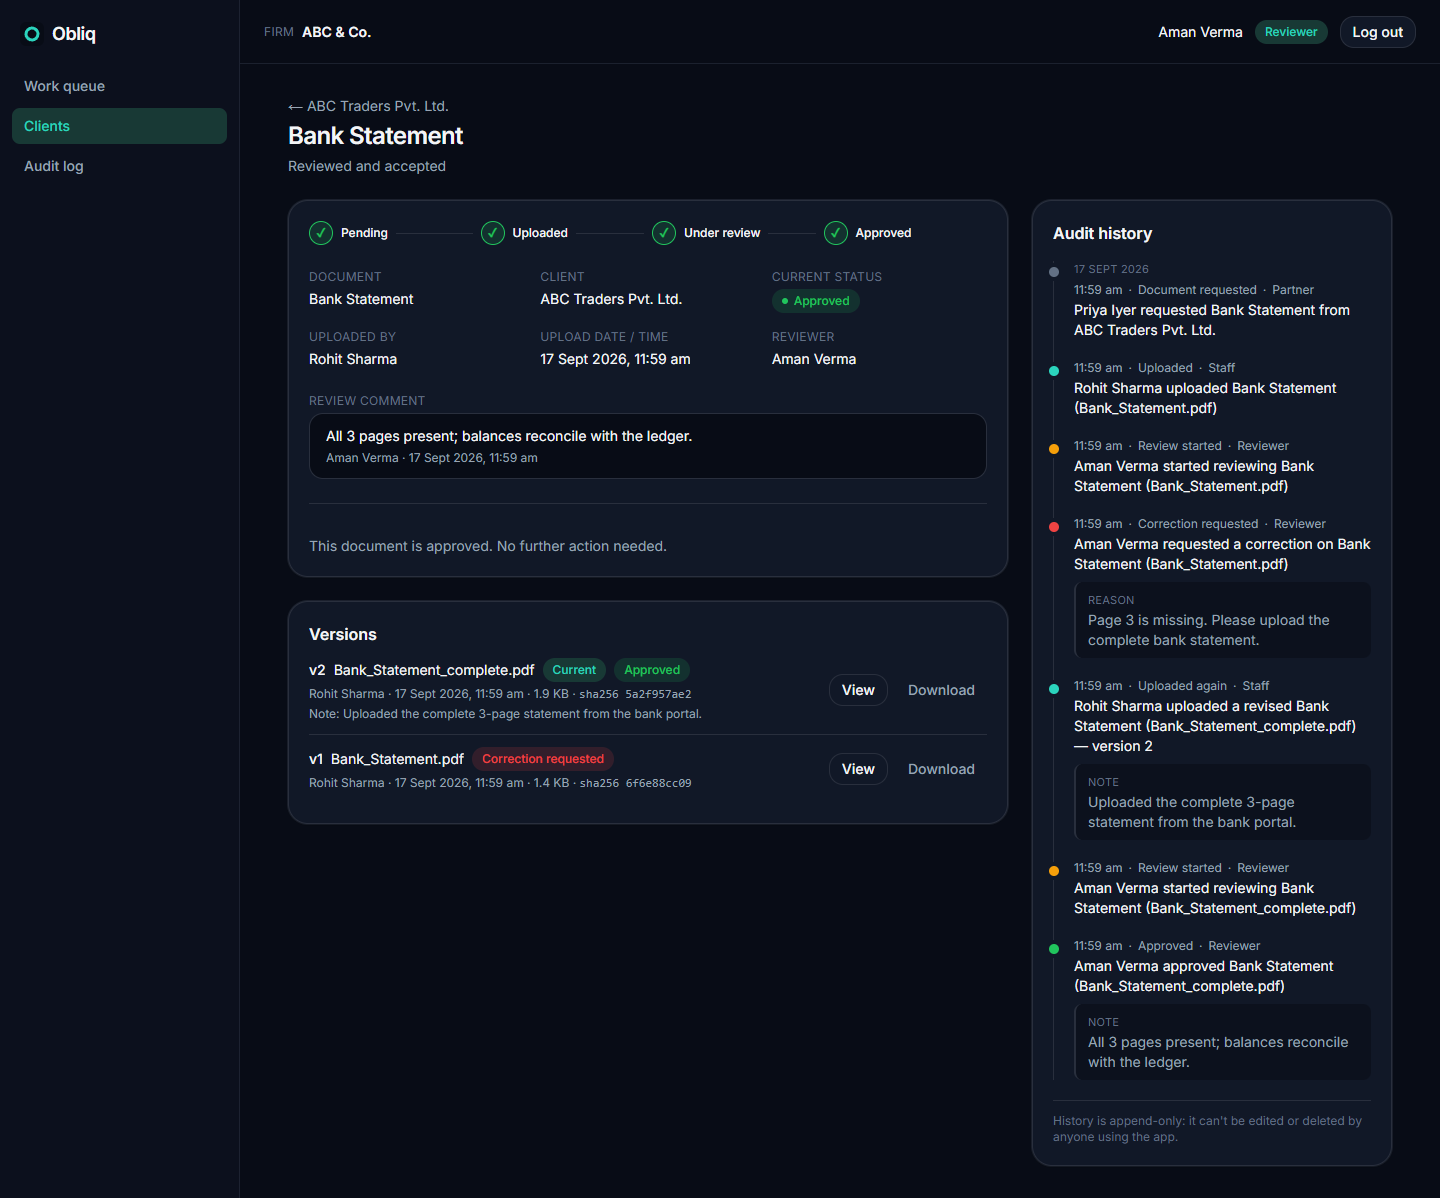
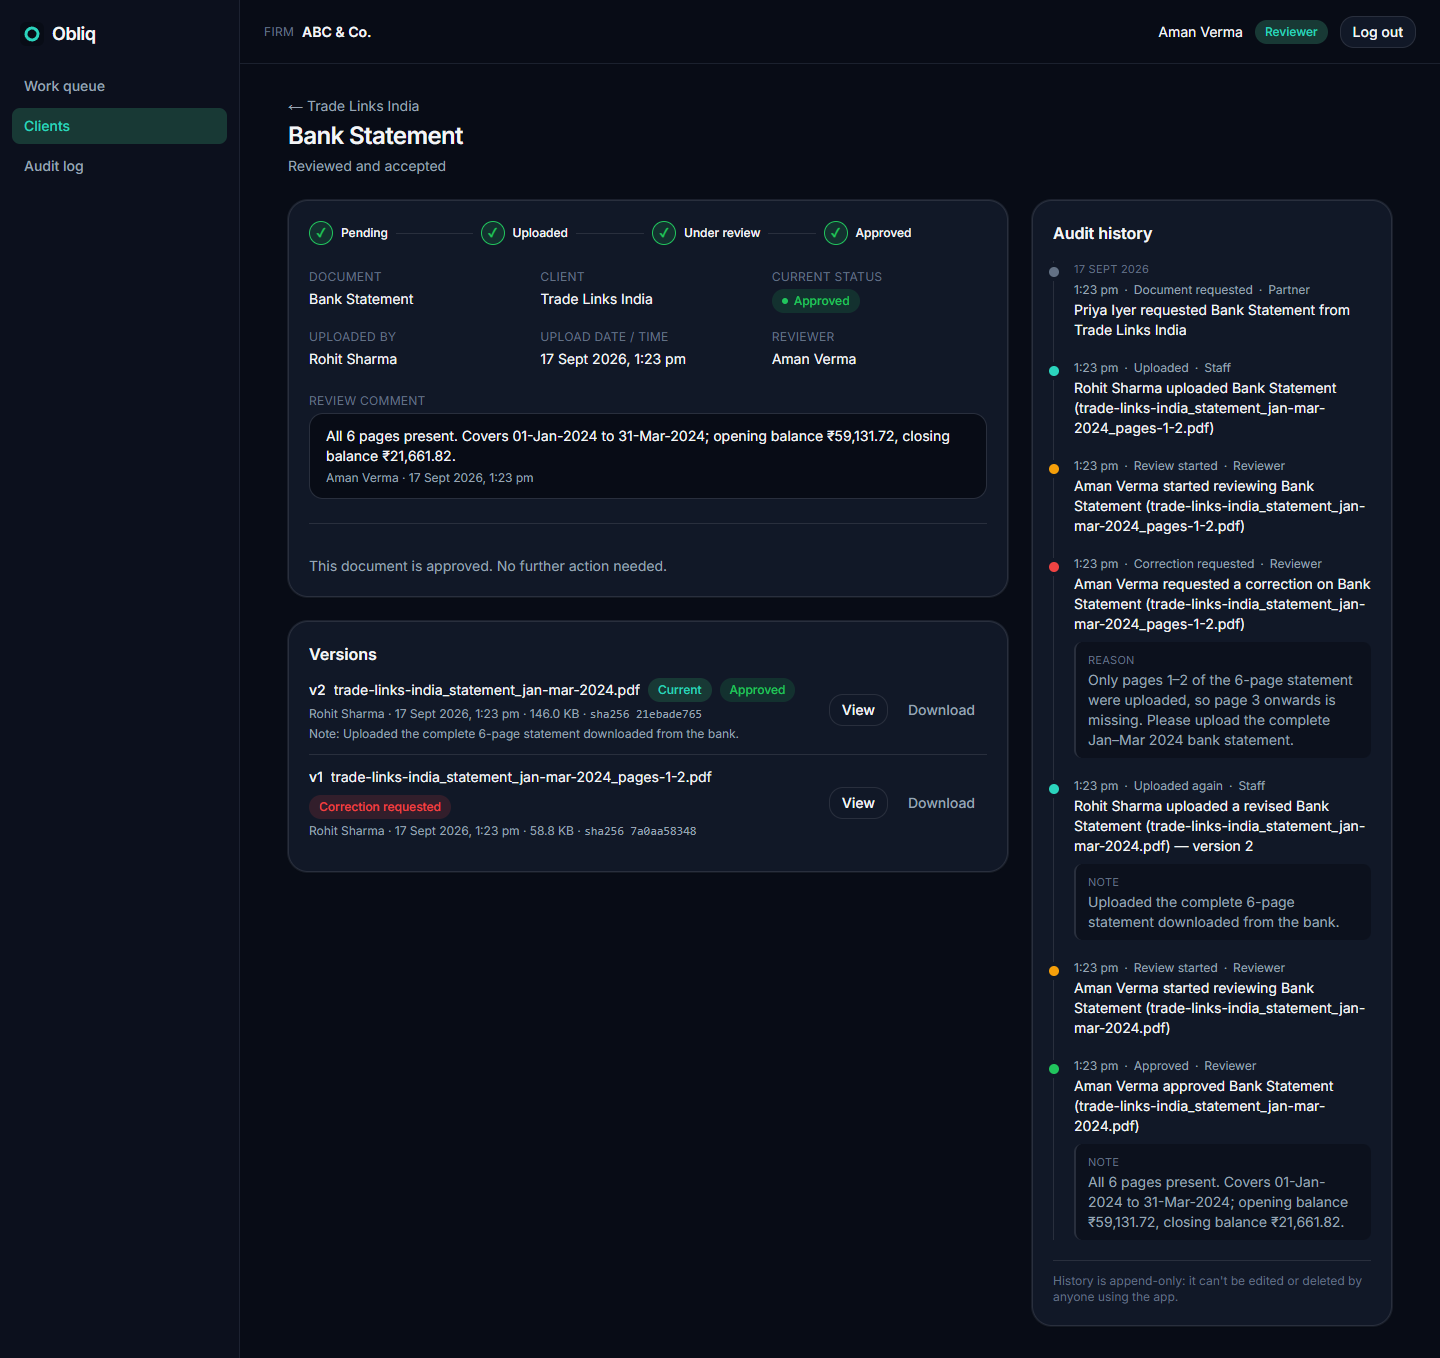
docs: document the synthetic test data and refresh screenshots and demo script
Claude-Session: https://claude.ai/code/session_01W4dgeFYvPMp1Gfc3ZFqqk5

diff --git a/docs/DEMO_SCRIPT.md b/docs/DEMO_SCRIPT.md
@@ -1,35 +1,33 @@
 # Demo video script (3–5 minutes)
 
-Follows the seven points the brief asks for. A plain screen recording is enough. Log in with the demo buttons on `/login` (password `AuditDemo@2026`).
+Follows the seven points in the brief. A plain screen recording is enough. Log in with the demo buttons on `/login` (password `AuditDemo@2026`). All documents come from the synthetic datasets the OBLIQ-in team suggested; see `samples/README.md`.
 
 ## 1. Login and role (0:00–0:30)
-- Open `/login`: two firms, each with Staff / Reviewer / Partner accounts; no public sign-up.
-- Log in as **Aman Verma (Reviewer, ABC & Co.)**. The top bar shows the firm and role badge.
-- The **Work queue** lists documents waiting for a review decision.
+- Open `/login`: two firms, Staff / Reviewer / Partner accounts, no public sign-up.
+- Log in as **Aman Verma (Reviewer, ABC & Co.)**. The top bar shows firm and role.
+- **Work queue**: the Salary Register is under review and the Vendor Master is waiting.
 
 ## 2. Client (0:30–1:00)
-- **Clients → New client**: "Demo Traders", keep the five default documents, create.
-- **Assign staff** → Rohit Sharma. Point out that Meera (another staff member) won't see this client.
+- **Clients** → *Indus Novate Technologies Pvt Ltd*: 5 required documents in different states, with progress, assigned staff and recent activity.
+- Optional: **New client** with the default checklist, then **Assign staff**. Say: "Staff only see clients they're assigned to."
 
-## 3. Upload / add document (1:00–1:45)
-- Log out and log in as **Rohit Sharma (Staff)**. The queue shows the new client's pending documents.
-- Open **Bank Statement → Upload file**, pick a PDF. The status moves to *Uploaded*, v1 is listed with its SHA-256.
+## 3. Correction with real data (1:00–2:15)
+- Open **Purchase Register** (status *Correction required*). Read the reason: the June 2026 books register doesn't reconcile with GSTR-2B (value mismatches, wrong GSTINs, missing invoices). These mismatches are seeded in the team's synthetic dataset.
+- Log in as **Rohit Sharma (Staff)**. The queue puts this correction first.
+- **Upload corrected file** → `samples/synthetic-finance-data/indus-novate_purchase-register_jun-2026_reconciled.csv`, with a note such as "Reconciled to GSTR-2B; ITC held on 5 unmatched invoices." It becomes *Uploaded*, v2 appears with its SHA-256, and Rohit sees no review buttons.
 
-## 4. Review document (1:45–2:15)
-- Log in as **Aman**. Open the document: name, client, uploaded by, upload date/time, status, review comment.
-- **Start review**: the status becomes *Under review*.
+## 4. Review and approve (2:15–3:00)
+- Log in as **Aman**. Open the Purchase Register → **Start review** → **Approve** with a short note.
+- The **Versions** list shows v1 *Correction requested* and v2 *Approved*.
 
-## 5. Request correction, then approve (2:15–3:15)
-- **Request correction**: try a short reason and show that it's rejected, then enter "Page 3 is missing. Please upload the complete bank statement."
-- Log in as **Rohit**: the reason is shown; **Upload corrected file** with a note → v2.
-- Log in as **Aman**: **Start review → Approve**. The version list shows v1 as correction requested and v2 as approved.
+## 5. Audit history (3:00–3:45)
+- Document page: the timeline reads like the brief's example (who, role, what, file, reason).
+- Open **Trade Links India → Bank Statement** to show the brief's own scenario: the 2-page upload, "page 3 onwards is missing", the complete statement, approval.
+- **Audit log**: filter by client or person, **✓ Hash chain verified**, **Export CSV**. Say: "Events can't be edited or deleted, even with the backend admin key."
 
-## 6. Audit history (3:15–4:00)
-- The document's **Audit history** panel reads like the brief's example: time, who, what, file, reason.
-- **Audit log** page: filter by client or person, **Hash chain verified ✓**, **Export CSV**.
-- Mention: events can't be edited or deleted, even with the backend admin key.
+## 6. Isolation (3:45–4:15)
+- Copy a Trade Links document URL. Log in as **Vikram Rao (XYZ & Co.)** and paste it: "Document not found". In Vikram's audit log, filter **Access denied** to see the blocked attempt.
+- Optional: as **Priya (Partner)**, upload the Trade Links Expense Summary and show maker-checker blocking her own review.
 
-## 7. Isolation and architecture (4:00–5:00)
-- Copy the document URL. Log in as **Vikram Rao (XYZ & Co.)** and paste it: "Document not found". In Vikram's audit log, filter **Access denied** to see the blocked attempt.
-- Optional: log in as **Priya (Partner)**, upload a file, and show maker-checker blocking her own review.
-- Architecture in one breath: *"The API verifies the token, loads the firm and role from the database, and queries Postgres with the user's own JWT, so Row Level Security isolates firms even if a route forgets a filter. Every state change is a database function that writes the audit event in the same transaction, and the audit table is append-only and hash-chained."* Show `supabase/migrations/0005_rls_and_grants.sql` and `apps/api/src/test/integration/security.test.ts`.
+## 7. Architecture (4:15–5:00)
+"The API verifies the token, loads firm and role from the database, and queries Postgres with the user's own JWT, so Row Level Security isolates firms even if a route forgets a filter. Every state change is a database function that writes the audit event in the same transaction, and the audit table is append-only and hash-chained." Show `supabase/migrations/0005_rls_and_grants.sql` and `apps/api/src/test/integration/security.test.ts`.

diff --git a/README.md b/README.md
@@ -121,12 +121,24 @@ To start over: `supabase db reset && pnpm seed`.
 
 | Firm | Name | Role | Try this |
 |---|---|---|---|
-| ABC & Co. | Rohit Sharma | Staff | Upload the corrected GST Return |
-| ABC & Co. | Aman Verma | Reviewer | Review the Sales Register; read the Bank Statement history |
-| ABC & Co. | Priya Iyer | Partner | Upload a file, then see maker-checker block your own review |
-| ABC & Co. | Meera Nair | Staff | Sees only Sharma Foods, not ABC Traders |
-| XYZ & Co. | Neha Kapoor | Staff | Sees only Zenith Exports |
-| XYZ & Co. | Vikram Rao | Reviewer | Paste an ABC document URL: 404, and it's logged |
+| ABC & Co. | Rohit Sharma | Staff | Upload the reconciled Purchase Register for Indus Novate (file in `samples/synthetic-finance-data/`) |
+| ABC & Co. | Aman Verma | Reviewer | Review the Salary Register; read the Trade Links bank statement history |
+| ABC & Co. | Priya Iyer | Partner | Upload the Trade Links Expense Summary, then see maker-checker block your own review |
+| ABC & Co. | Meera Nair | Staff | Sees only Indus Novate, not Trade Links India |
+| XYZ & Co. | Neha Kapoor | Staff | Sees only Pixelcraft Studios |
+| XYZ & Co. | Vikram Rao | Reviewer | Paste a Trade Links document URL: 404, and it's logged |
+
+### Test data: the OBLIQ-in synthetic datasets
+
+The demo documents are **real files from the synthetic datasets the OBLIQ-in team suggested** (no real client or bank data). `pnpm seed` uploads them through the actual workflow, so every version has a genuine SHA-256 in the audit trail:
+
+| Client | Dataset | Documents and what they demonstrate |
+|---|---|---|
+| Trade Links India | [AgamiAI Indian Bank Statements](https://huggingface.co/datasets/AgamiAI/Indian-Bank-Statements) | The brief's example: a 2-of-6-page upload gets a correction request, the full statement is re-uploaded and approved |
+| Indus Novate Technologies | [synthetic-finance-data](https://github.com/AnujSureshkumar/synthetic-finance-data) | The books purchase register is sent back with the dataset's **real seeded GSTR-2B mismatches** in the reason (value, GSTIN, missing invoices); vendor tax invoice approved; salary register under review |
+| Pixelcraft Studios | [LedgerBridge](https://github.com/PearlThoughts/LedgerBridge) | HDFC bank export approved, RazorpayX payroll uploaded, monthly MIS workbook under review |
+
+A reconciled purchase register, derived from the dataset's own GSTR-2B, is included so the correction can be fixed live in a demo. Sources, licenses, derived-file notes, and why the unlicensed Invoice Sandbox Benchmark isn't bundled are in [`samples/README.md`](samples/README.md).
 
 ## Testing
 
@@ -152,6 +164,7 @@ apps/web          Next.js UI: login, work queue, clients, document review, audit
 apps/api          Fastify API: auth + firm context, clients, documents, queue, audit
 packages/shared   Workflow state machine, role matrix, audit wording, shared types
 supabase/         Migrations (schema, audit log, workflow functions, RLS, storage) + reset scripts
+samples/          synthetic documents from the OBLIQ-in suggested datasets (with licenses)
 scripts/          seed-demo.ts, ops/smoke-test.ps1, ops/health-check.py
 ```
 
